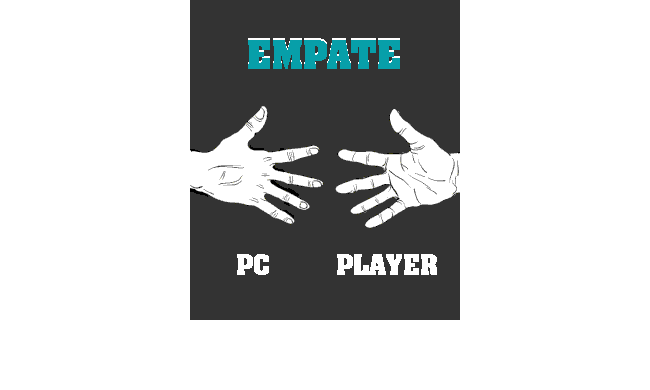
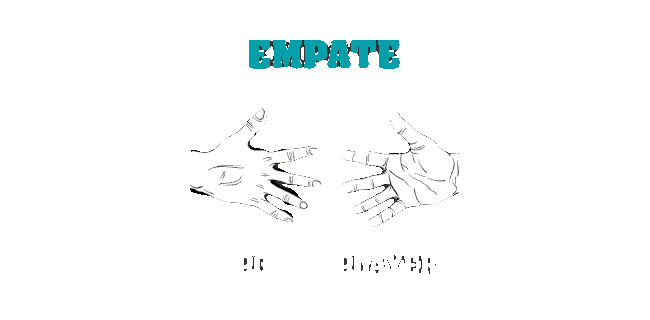
Iniciado tratamento de imagens e tela de jokenpo

Changed region(s): [[0.2769, 0.0, 0.7077, 0.8438]]

diff --git a/games/jokenpo.py b/games/jokenpo.py
@@ -10,11 +10,10 @@ def jokenpo():
     possibilidades = ['PEDRA', 'PAPEL', 'TESOURA']
     WIN_W = 650
     WIN_H = 450
+    bg_color = '#4f4f4f'
 
     # layout
     def jokenpo_inicio():
-        
-        bg_color = '#4f4f4f'
         
         if ler_nome_do_ultimo_player() != 'Default':
             nome = ler_nome_do_ultimo_player()
@@ -70,8 +69,9 @@ def jokenpo():
         sg.theme('DarkBlue14')
         layout = [
             [sg.Image(png, background_color = '#4F4F4F')],
-            [sg.Button(f'{"Cancel":^}', key='Cancel', size=(35,3)),
-            sg.Button(f'{"JOGAR NOVAMENTE":^}', key='JOGAR', size=(35,3))]
+            [sg.Canvas(background_color=bg_color, size=(650, 20), pad=None)], 
+            [sg.Button(f'{"Cancel":^}', key='Cancel', size=(41,5)),
+            sg.Button(f'{"JOGAR NOVAMENTE":^}', key='JOGAR', size=(41,5))]
             ]
 
         return sg.Window('Jokenpo',
